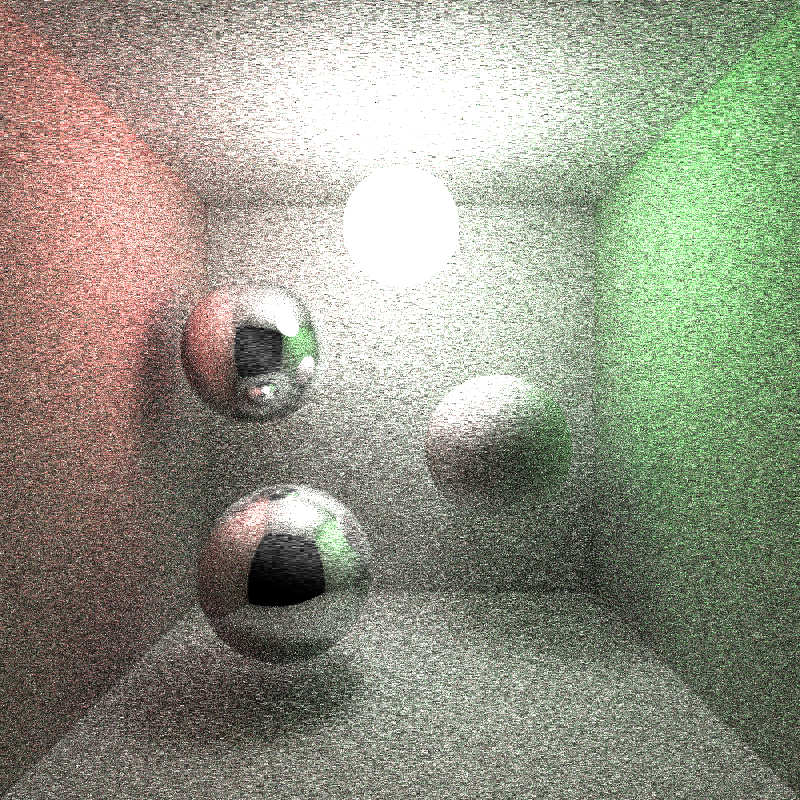
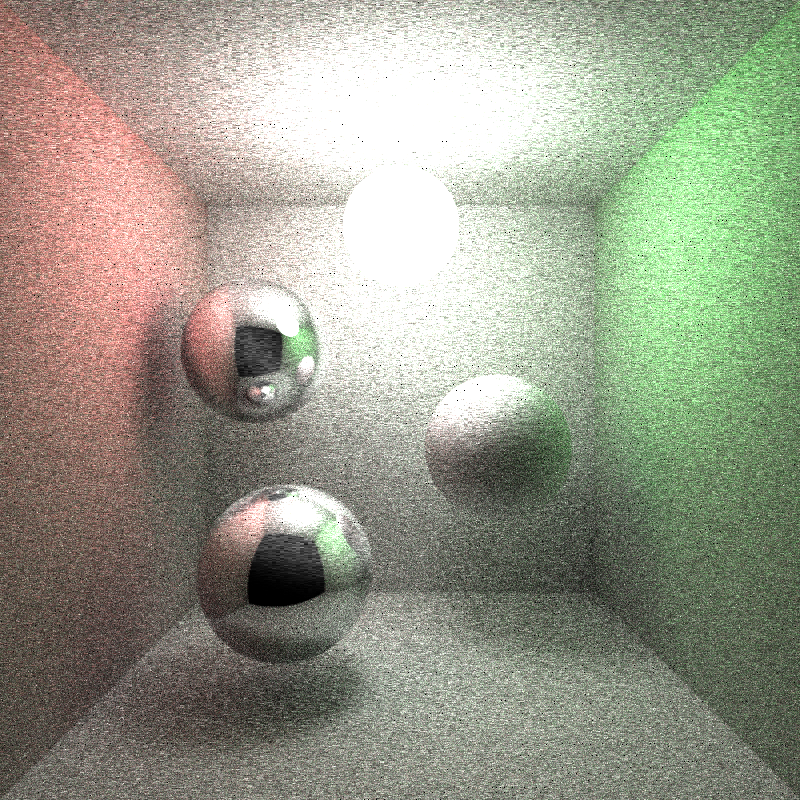
allow front end user to select iteration

diff --git a/DistRenderer/msg.pb.cc b/DistRenderer/msg.pb.cc
@@ -75,9 +75,10 @@ void protobuf_AssignDesc_msg_2eproto() {
       ::google::protobuf::MessageFactory::generated_factory(),
       sizeof(Color));
   INIT_descriptor_ = file->message_type(1);
-  static const int INIT_offsets_[2] = {
+  static const int INIT_offsets_[3] = {
     GOOGLE_PROTOBUF_GENERATED_MESSAGE_FIELD_OFFSET(INIT, viewer_ip_),
     GOOGLE_PROTOBUF_GENERATED_MESSAGE_FIELD_OFFSET(INIT, viewer_port_),
+    GOOGLE_PROTOBUF_GENERATED_MESSAGE_FIELD_OFFSET(INIT, iteration_),
   };
   INIT_reflection_ =
     new ::google::protobuf::internal::GeneratedMessageReflection(
@@ -273,21 +274,21 @@ void protobuf_AddDesc_msg_2eproto() {
 
   ::google::protobuf::DescriptorPool::InternalAddGeneratedFile(
     "\n\tmsg.proto\022\007Message\"(\n\005Color\022\t\n\001r\030\001 \002(\005"
-    "\022\t\n\001g\030\002 \002(\005\022\t\n\001b\030\003 \002(\005\".\n\004INIT\022\021\n\tviewer"
-    "_ip\030\001 \002(\t\022\023\n\013viewer_port\030\002 \002(\005\"\033\n\004DONE\022\023"
-    "\n\013assigned_no\030\001 \001(\005\"S\n\tFILE_DATA\022\017\n\007dirP"
-    "ath\030\001 \002(\t\022\021\n\ttargetDir\030\002 \002(\t\022\020\n\010fileName"
-    "\030\003 \003(\t\022\020\n\010fileSize\030\004 \003(\005\"\033\n\004HALT\022\023\n\013assi"
-    "gned_no\030\001 \002(\005\"\027\n\003ACK\022\020\n\010ack_code\030\001 \002(\005\"_"
-    "\n\010CAM_MOVE\022\r\n\005theta\030\001 \002(\002\022\013\n\003phi\030\002 \002(\002\022\021"
-    "\n\tcammove_x\030\003 \002(\002\022\021\n\tcammove_y\030\004 \002(\002\022\021\n\t"
-    "cammove_z\030\005 \002(\002\"R\n\005PIXEL\022\025\n\rfirstPixelPt"
-    "r\030\001 \002(\005\022\023\n\013pixelOffset\030\002 \002(\005\022\035\n\005color\030\003 "
-    "\003(\0132\016.Message.Color\"\233\001\n\014START_RENDER\022\021\n\t"
-    "viewer_ip\030\001 \002(\t\022\023\n\013viewer_port\030\002 \002(\005\022\021\n\t"
-    "leader_ip\030\003 \002(\t\022\023\n\013leader_port\030\004 \002(\005\022\023\n\013"
-    "no_renderer\030\005 \002(\005\022\023\n\013assigned_no\030\006 \002(\005\022\021"
-    "\n\titeration\030\007 \002(\005", 617);
+    "\022\t\n\001g\030\002 \002(\005\022\t\n\001b\030\003 \002(\005\"A\n\004INIT\022\021\n\tviewer"
+    "_ip\030\001 \002(\t\022\023\n\013viewer_port\030\002 \002(\005\022\021\n\titerat"
+    "ion\030\003 \002(\005\"\033\n\004DONE\022\023\n\013assigned_no\030\001 \001(\005\"S"
+    "\n\tFILE_DATA\022\017\n\007dirPath\030\001 \002(\t\022\021\n\ttargetDi"
+    "r\030\002 \002(\t\022\020\n\010fileName\030\003 \003(\t\022\020\n\010fileSize\030\004 "
+    "\003(\005\"\033\n\004HALT\022\023\n\013assigned_no\030\001 \002(\005\"\027\n\003ACK\022"
+    "\020\n\010ack_code\030\001 \002(\005\"_\n\010CAM_MOVE\022\r\n\005theta\030\001"
+    " \002(\002\022\013\n\003phi\030\002 \002(\002\022\021\n\tcammove_x\030\003 \002(\002\022\021\n\t"
+    "cammove_y\030\004 \002(\002\022\021\n\tcammove_z\030\005 \002(\002\"R\n\005PI"
+    "XEL\022\025\n\rfirstPixelPtr\030\001 \002(\005\022\023\n\013pixelOffse"
+    "t\030\002 \002(\005\022\035\n\005color\030\003 \003(\0132\016.Message.Color\"\233"
+    "\001\n\014START_RENDER\022\021\n\tviewer_ip\030\001 \002(\t\022\023\n\013vi"
+    "ewer_port\030\002 \002(\005\022\021\n\tleader_ip\030\003 \002(\t\022\023\n\013le"
+    "ader_port\030\004 \002(\005\022\023\n\013no_renderer\030\005 \002(\005\022\023\n\013"
+    "assigned_no\030\006 \002(\005\022\021\n\titeration\030\007 \002(\005", 636);
   ::google::protobuf::MessageFactory::InternalRegisterGeneratedFile(
     "msg.proto", &protobuf_RegisterTypes);
   Color::default_instance_ = new Color();
@@ -636,6 +637,7 @@ void Color::Swap(Color* other) {
 #ifndef _MSC_VER
 const int INIT::kViewerIpFieldNumber;
 const int INIT::kViewerPortFieldNumber;
+const int INIT::kIterationFieldNumber;
 #endif  // !_MSC_VER
 
 INIT::INIT()
@@ -659,6 +661,7 @@ void INIT::SharedCtor() {
   _cached_size_ = 0;
   viewer_ip_ = const_cast< ::std::string*>(&::google::protobuf::internal::GetEmptyStringAlreadyInited());
   viewer_port_ = 0;
+  iteration_ = 0;
   ::memset(_has_bits_, 0, sizeof(_has_bits_));
 }
 
@@ -697,14 +700,28 @@ INIT* INIT::New() const {
 }
 
 void INIT::Clear() {
-  if (_has_bits_[0 / 32] & 3) {
+#define OFFSET_OF_FIELD_(f) (reinterpret_cast<char*>(      \
+  &reinterpret_cast<INIT*>(16)->f) - \
+   reinterpret_cast<char*>(16))
+
+#define ZR_(first, last) do {                              \
+    size_t f = OFFSET_OF_FIELD_(first);                    \
+    size_t n = OFFSET_OF_FIELD_(last) - f + sizeof(last);  \
+    ::memset(&first, 0, n);                                \
+  } while (0)
+
+  if (_has_bits_[0 / 32] & 7) {
+    ZR_(viewer_port_, iteration_);
     if (has_viewer_ip()) {
       if (viewer_ip_ != &::google::protobuf::internal::GetEmptyStringAlreadyInited()) {
         viewer_ip_->clear();
       }
     }
-    viewer_port_ = 0;
   }
+
+#undef OFFSET_OF_FIELD_
+#undef ZR_
+
   ::memset(_has_bits_, 0, sizeof(_has_bits_));
   mutable_unknown_fields()->Clear();
 }
@@ -743,6 +760,21 @@ bool INIT::MergePartialFromCodedStream(
                    ::google::protobuf::int32, ::google::protobuf::internal::WireFormatLite::TYPE_INT32>(
                  input, &viewer_port_)));
           set_has_viewer_port();
+        } else {
+          goto handle_unusual;
+        }
+        if (input->ExpectTag(24)) goto parse_iteration;
+        break;
+      }
+
+      // required int32 iteration = 3;
+      case 3: {
+        if (tag == 24) {
+         parse_iteration:
+          DO_((::google::protobuf::internal::WireFormatLite::ReadPrimitive<
+                   ::google::protobuf::int32, ::google::protobuf::internal::WireFormatLite::TYPE_INT32>(
+                 input, &iteration_)));
+          set_has_iteration();
         } else {
           goto handle_unusual;
         }
@@ -790,6 +822,11 @@ void INIT::SerializeWithCachedSizes(
     ::google::protobuf::internal::WireFormatLite::WriteInt32(2, this->viewer_port(), output);
   }
 
+  // required int32 iteration = 3;
+  if (has_iteration()) {
+    ::google::protobuf::internal::WireFormatLite::WriteInt32(3, this->iteration(), output);
+  }
+
   if (!unknown_fields().empty()) {
     ::google::protobuf::internal::WireFormat::SerializeUnknownFields(
         unknown_fields(), output);
@@ -816,6 +853,11 @@ void INIT::SerializeWithCachedSizes(
     target = ::google::protobuf::internal::WireFormatLite::WriteInt32ToArray(2, this->viewer_port(), target);
   }
 
+  // required int32 iteration = 3;
+  if (has_iteration()) {
+    target = ::google::protobuf::internal::WireFormatLite::WriteInt32ToArray(3, this->iteration(), target);
+  }
+
   if (!unknown_fields().empty()) {
     target = ::google::protobuf::internal::WireFormat::SerializeUnknownFieldsToArray(
         unknown_fields(), target);
@@ -840,6 +882,13 @@ int INIT::ByteSize() const {
       total_size += 1 +
         ::google::protobuf::internal::WireFormatLite::Int32Size(
           this->viewer_port());
+    }
+
+    // required int32 iteration = 3;
+    if (has_iteration()) {
+      total_size += 1 +
+        ::google::protobuf::internal::WireFormatLite::Int32Size(
+          this->iteration());
     }
 
   }
@@ -875,6 +924,9 @@ void INIT::MergeFrom(const INIT& from) {
     if (from.has_viewer_port()) {
       set_viewer_port(from.viewer_port());
     }
+    if (from.has_iteration()) {
+      set_iteration(from.iteration());
+    }
   }
   mutable_unknown_fields()->MergeFrom(from.unknown_fields());
 }
@@ -892,7 +944,7 @@ void INIT::CopyFrom(const INIT& from) {
 }
 
 bool INIT::IsInitialized() const {
-  if ((_has_bits_[0] & 0x00000003) != 0x00000003) return false;
+  if ((_has_bits_[0] & 0x00000007) != 0x00000007) return false;
 
   return true;
 }
@@ -901,6 +953,7 @@ void INIT::Swap(INIT* other) {
   if (other != this) {
     std::swap(viewer_ip_, other->viewer_ip_);
     std::swap(viewer_port_, other->viewer_port_);
+    std::swap(iteration_, other->iteration_);
     std::swap(_has_bits_[0], other->_has_bits_[0]);
     _unknown_fields_.Swap(&other->_unknown_fields_);
     std::swap(_cached_size_, other->_cached_size_);

diff --git a/DistRenderer/msg.pb.h b/DistRenderer/msg.pb.h
@@ -216,12 +216,21 @@ class INIT : public ::google::protobuf::Message {
   inline ::google::protobuf::int32 viewer_port() const;
   inline void set_viewer_port(::google::protobuf::int32 value);
 
+  // required int32 iteration = 3;
+  inline bool has_iteration() const;
+  inline void clear_iteration();
+  static const int kIterationFieldNumber = 3;
+  inline ::google::protobuf::int32 iteration() const;
+  inline void set_iteration(::google::protobuf::int32 value);
+
   // @@protoc_insertion_point(class_scope:Message.INIT)
  private:
   inline void set_has_viewer_ip();
   inline void clear_has_viewer_ip();
   inline void set_has_viewer_port();
   inline void clear_has_viewer_port();
+  inline void set_has_iteration();
+  inline void clear_has_iteration();
 
   ::google::protobuf::UnknownFieldSet _unknown_fields_;
 
@@ -229,6 +238,7 @@ class INIT : public ::google::protobuf::Message {
   mutable int _cached_size_;
   ::std::string* viewer_ip_;
   ::google::protobuf::int32 viewer_port_;
+  ::google::protobuf::int32 iteration_;
   friend void  protobuf_AddDesc_msg_2eproto();
   friend void protobuf_AssignDesc_msg_2eproto();
   friend void protobuf_ShutdownFile_msg_2eproto();
@@ -1153,6 +1163,30 @@ inline void INIT::set_viewer_port(::google::protobuf::int32 value) {
   set_has_viewer_port();
   viewer_port_ = value;
   // @@protoc_insertion_point(field_set:Message.INIT.viewer_port)
+}
+
+// required int32 iteration = 3;
+inline bool INIT::has_iteration() const {
+  return (_has_bits_[0] & 0x00000004u) != 0;
+}
+inline void INIT::set_has_iteration() {
+  _has_bits_[0] |= 0x00000004u;
+}
+inline void INIT::clear_has_iteration() {
+  _has_bits_[0] &= ~0x00000004u;
+}
+inline void INIT::clear_iteration() {
+  iteration_ = 0;
+  clear_has_iteration();
+}
+inline ::google::protobuf::int32 INIT::iteration() const {
+  // @@protoc_insertion_point(field_get:Message.INIT.iteration)
+  return iteration_;
+}
+inline void INIT::set_iteration(::google::protobuf::int32 value) {
+  set_has_iteration();
+  iteration_ = value;
+  // @@protoc_insertion_point(field_set:Message.INIT.iteration)
 }
 
 // -------------------------------------------------------------------

diff --git a/DistRenderer/main.cpp b/DistRenderer/main.cpp
@@ -35,12 +35,10 @@ int main(int argc, char** argv) {
 					"the SCENEFILE.txt itself." << std::endl;
 			}
 
-			PacketManager pMgr(VIEW_RECVPORT);
-			FrontEnd fe(&pMgr, argv[2], argv[3]);
-
 			//ask for the leader's IP:Port
 			std::string ip;
 			uint32_t port;
+			int iteration;
 
 			std::cout << "Leader's IP: ";
 			std::cin >> ip;
@@ -48,6 +46,11 @@ int main(int argc, char** argv) {
 			std::cout << "Leader's port: ";
 			std::cin >> port;
 
+			std::cout << "Update image every .... iteration? : ";
+			std::cin >> iteration;
+
+			PacketManager pMgr(VIEW_RECVPORT);
+			FrontEnd fe(&pMgr, argv[2], argv[3], iteration);
 			fe.setLeaderIPPort(ip, port);
 
 			std::thread pmThread = pMgr.getThread();
@@ -137,7 +140,7 @@ void debugFunc(const char *dirPath, const char* listFile)
 	}
 
 	PacketManager pMgr(VIEW_RECVPORT);
-	FrontEnd fEnd(&pMgr, dirPath, listFile);
+	FrontEnd fEnd(&pMgr, dirPath, listFile, TEST_SEND_ITERATION);
 	fEnd.setLeaderIPPort(pMgrLeader.getIP(), pMgrLeader.getPort());
 
 	threads.push_back(pMgr.getThread());

diff --git a/DistRenderer/FrontEnd.cpp b/DistRenderer/FrontEnd.cpp
@@ -1,7 +1,7 @@
 #include "FrontEnd.h"
 
 FrontEnd::FrontEnd(PacketManager* pMgr_, 
-	std::string dirPath_, std::string listTxt_){
+	std::string dirPath_, std::string listTxt_, int sendIteration_){
 	pMgr = pMgr_;
 	dirPath = dirPath_;
 	listTxt = listTxt_;
@@ -9,6 +9,7 @@ FrontEnd::FrontEnd(PacketManager* pMgr_,
 	leaderIP = "";
 	leaderPort = 0;
 	display = nullptr;
+	sendIteration = sendIteration_;
 }
 
 FrontEnd::~FrontEnd(){
@@ -71,6 +72,7 @@ void FrontEnd::checkRendererAvailability(){
 	Message::INIT *imsg = new Message::INIT();
 	imsg->set_viewer_ip(getSelfIP());
 	imsg->set_viewer_port(pMgr->getPort());
+	imsg->set_iteration(sendIteration);
 
 	pMgr->push(imsg);
 	bool sent = pMgr->sendPackets(leaderIP, leaderPort);

diff --git a/DistRenderer/Leader.cpp b/DistRenderer/Leader.cpp
@@ -62,6 +62,7 @@ void Leader::leaderStandby(){
 
 			Message::INIT* imsg = pkt->get_init();
 			setViewerIPPort(imsg->viewer_ip(), imsg->viewer_port());
+			sendIteration = imsg->iteration();
 
 			//TODO: for now, we will just assume that the leader
 			//can only handle one rendering at a time.
@@ -151,7 +152,7 @@ void Leader::initRenderers(){
 		minit->set_leader_port(pMgr->getPort());
 		minit->set_assigned_no(i);
 		minit->set_no_renderer(activeRenderer.size());
-		minit->set_iteration(TEST_SEND_ITERATION);
+		minit->set_iteration(sendIteration);
 
 		pMgr->push(minit);
 		IP_Port target = activeRenderer[i];

diff --git a/DistRenderer/FrontEnd.h b/DistRenderer/FrontEnd.h
@@ -8,7 +8,8 @@ enum FrontEndState { IDLE = 0, WAITFORGREENLIGHT, SENDSCENE, READY };
 
 class FrontEnd{
 	public:
-		FrontEnd(PacketManager* pMgr_, std::string dirPath_, std::string listTxt_);
+		FrontEnd(PacketManager* pMgr_, std::string dirPath_, 
+			std::string listTxt_, int sendIteration_);
 		~FrontEnd();
 		void setLeaderIPPort(std::string ip_, uint32_t port_);
 		std::thread	getThread();
@@ -21,6 +22,8 @@ class FrontEnd{
 		void waitForLeader();
 		void sendSceneInfo();
 		void fetchPixels();
+		
+		int sendIteration;
 
 		FrontEndState state;
 		std::string leaderIP;

diff --git a/DistRenderer/Helper.h b/DistRenderer/Helper.h
@@ -24,7 +24,7 @@
 #define PITCH_SENSITIVITY 0.001f
 
 #define RETRY_ATTEMPT 5
-#define TEST_SEND_ITERATION 20
+#define TEST_SEND_ITERATION 30
 
 #define MAXCONN 8
 #define PACKET_HEADER_SIZE 5

diff --git a/DistRenderer/Leader.h b/DistRenderer/Leader.h
@@ -24,6 +24,8 @@ public:
 		PacketManager* pMgr;
 		LeaderState state;
 
+		int sendIteration;
+
 		std::string viewerIP;
 		unsigned int viewerPort;
 		std::string leaderIP;
